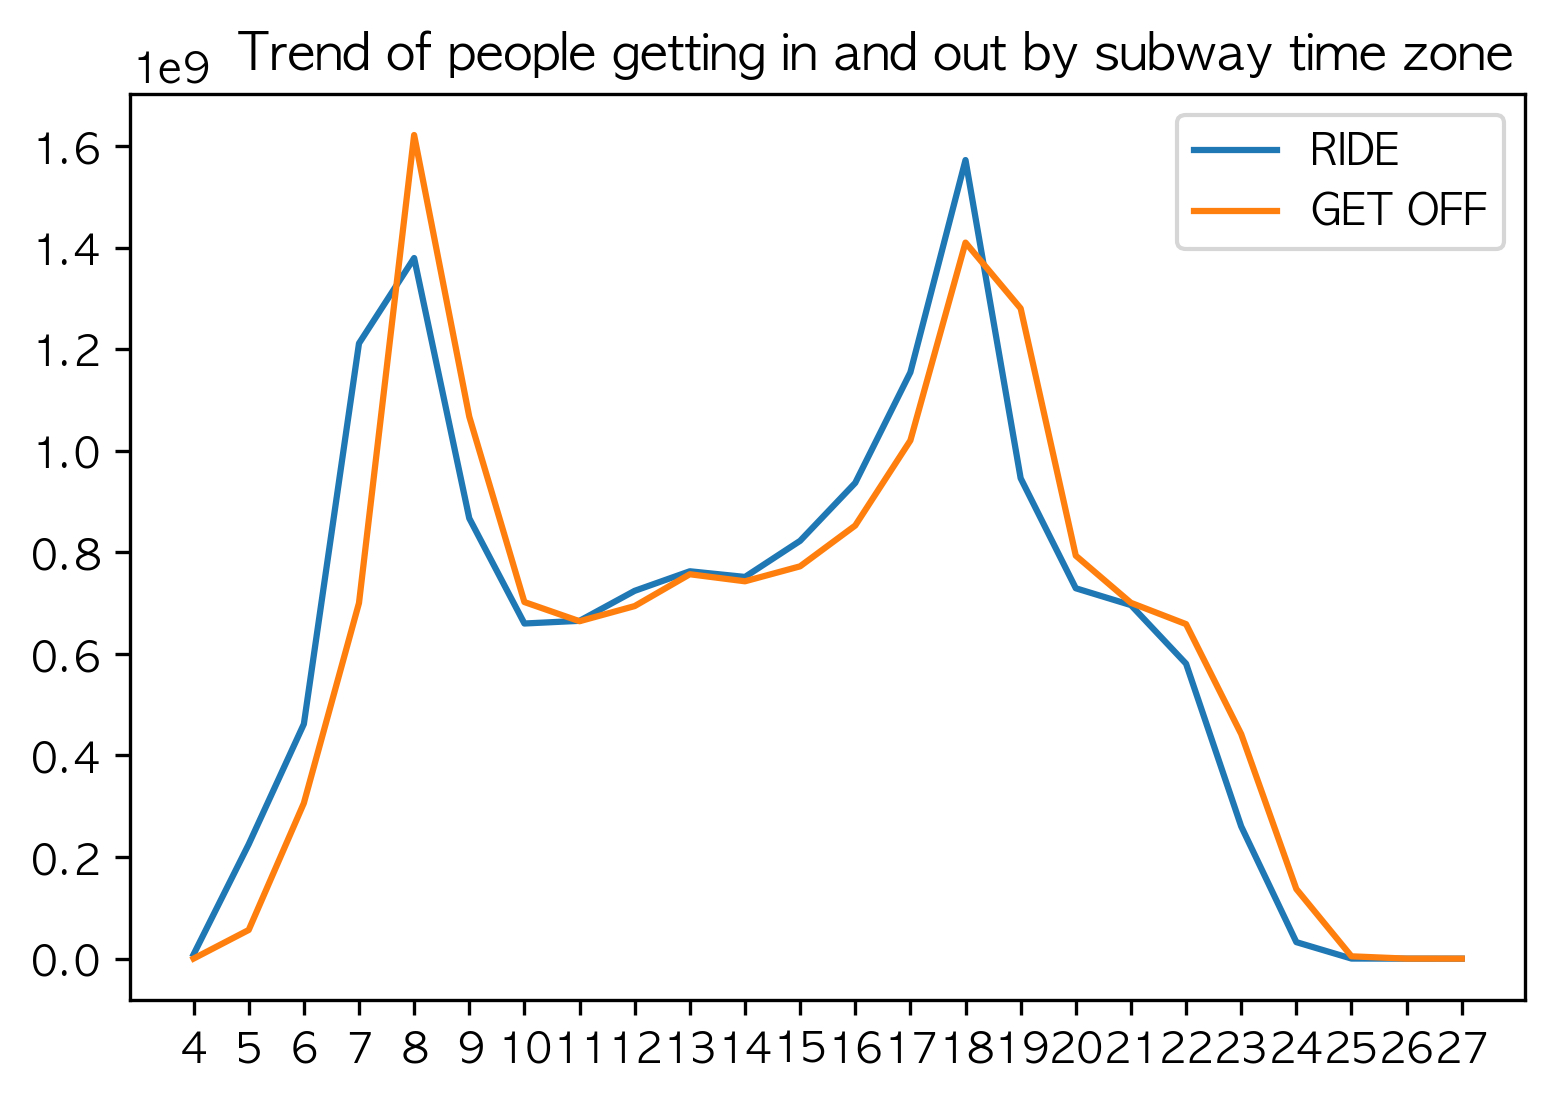
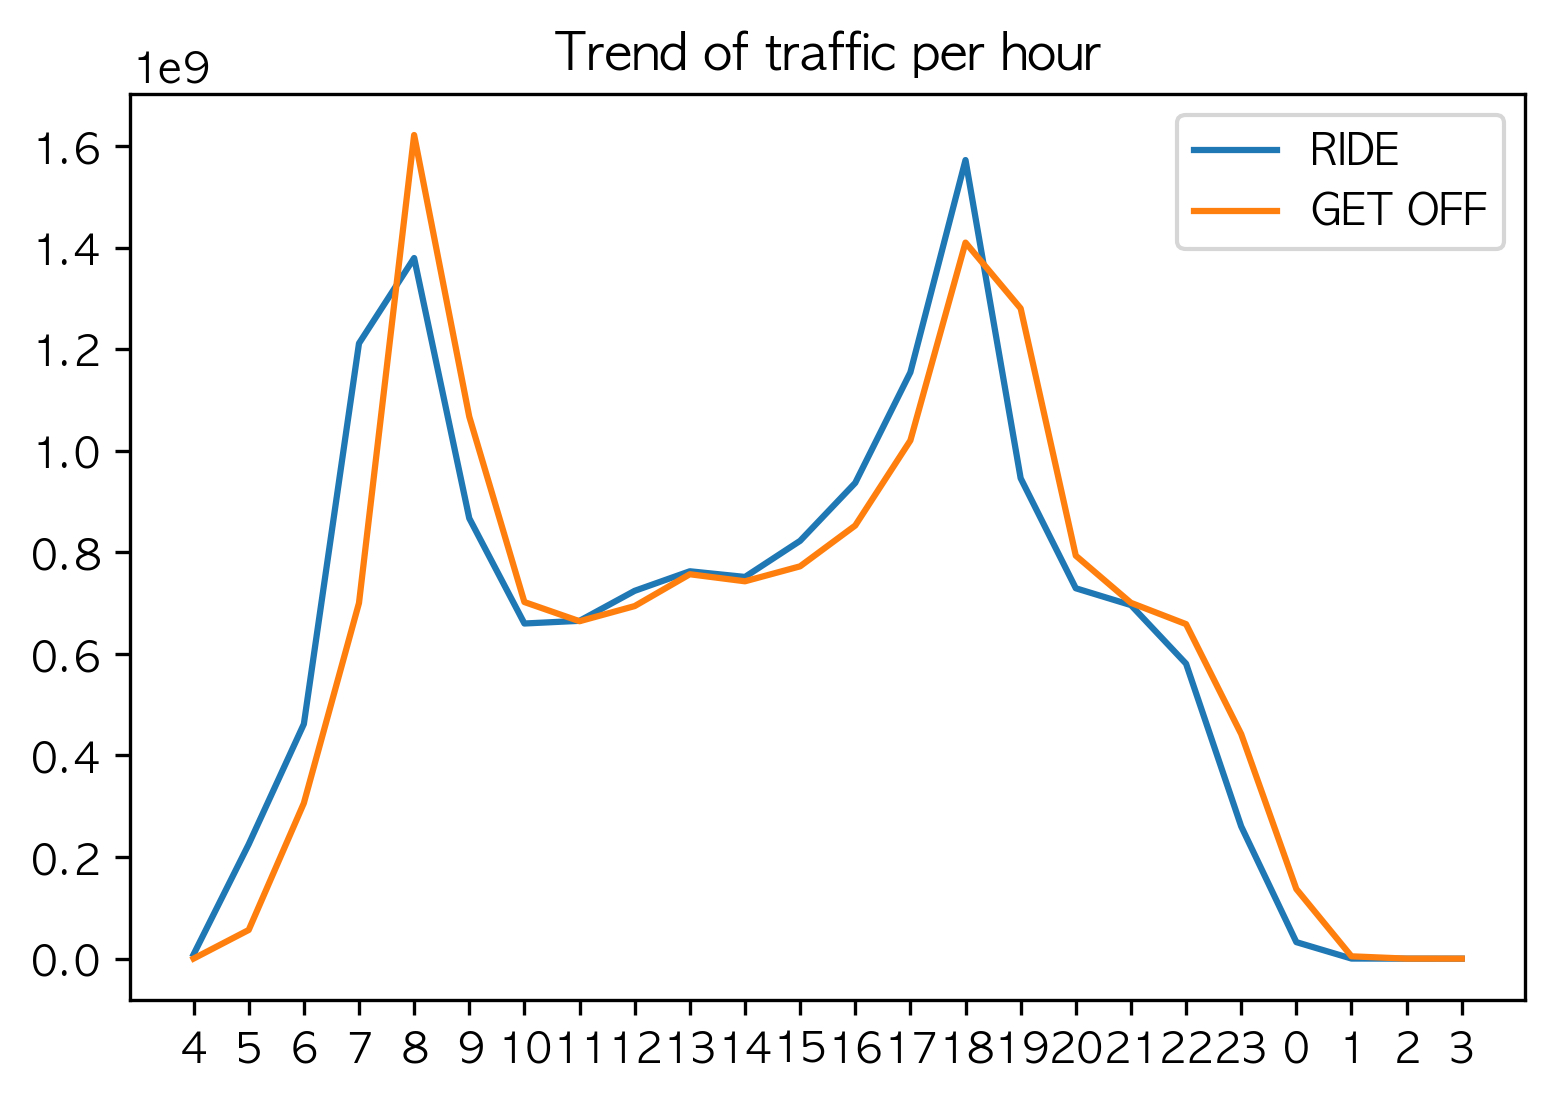
Version 1.1

Changed region(s): [[0.1543, 0.0309, 0.9878, 0.0928], [0.8026, 0.9281, 0.9569, 0.99]]

diff --git a/src/App.js b/src/App.js
@@ -83,7 +83,7 @@ const App = () => {
     return(
       <section>
         <div>
-          <h3>Stations with the most passengers boarding per every hour</h3>
+          <h3>Stations with the most passengers boarding per hour</h3>
           <div className="row">
           <ReactMarkdown source=
             {
@@ -119,7 +119,7 @@ plt.show()
           
         </div>
         <div>
-        <h3>The station with the most drop-offs by time zone.</h3>
+        <h3>Stations with the most passengers exiting per hour</h3>
         <div className="row">
           <ReactMarkdown source=
             {
@@ -154,7 +154,7 @@ plt.show()
           </div>
         </div>
         <div>
-          <h3>Trend of people getting in and out by subway time zone</h3>
+          <h3>Trend of traffic per hour</h3>
           <div className="row">
           <ReactMarkdown source=
             {
@@ -256,9 +256,9 @@ plt.show()
        }
        {
          result&&
-         <p>{date.getHours()} o'clock<br/>Historical data shows that there will be {result} people.<br/>It is expected to be {result>30000?<>crowded..</>:<>vacant..</>}</p>
+         <p>{date.getHours()} o'clock<br/>Past data shows that there will be {result} people.<br/>It is expected to be {result>30000?<>crowded..</>:<>vacant..</>}</p>
        }
-       <a href="#" onClick={()=>graph?setGraph(false):setGraph(true)}><p>See Visualize Subway Crowding Data</p></a>
+       <a href="#" onClick={()=>graph?setGraph(false):setGraph(true)}><p>View Visualized Subway Traffic Data</p></a>
        {graph&&
         GrpahContents()
        }
